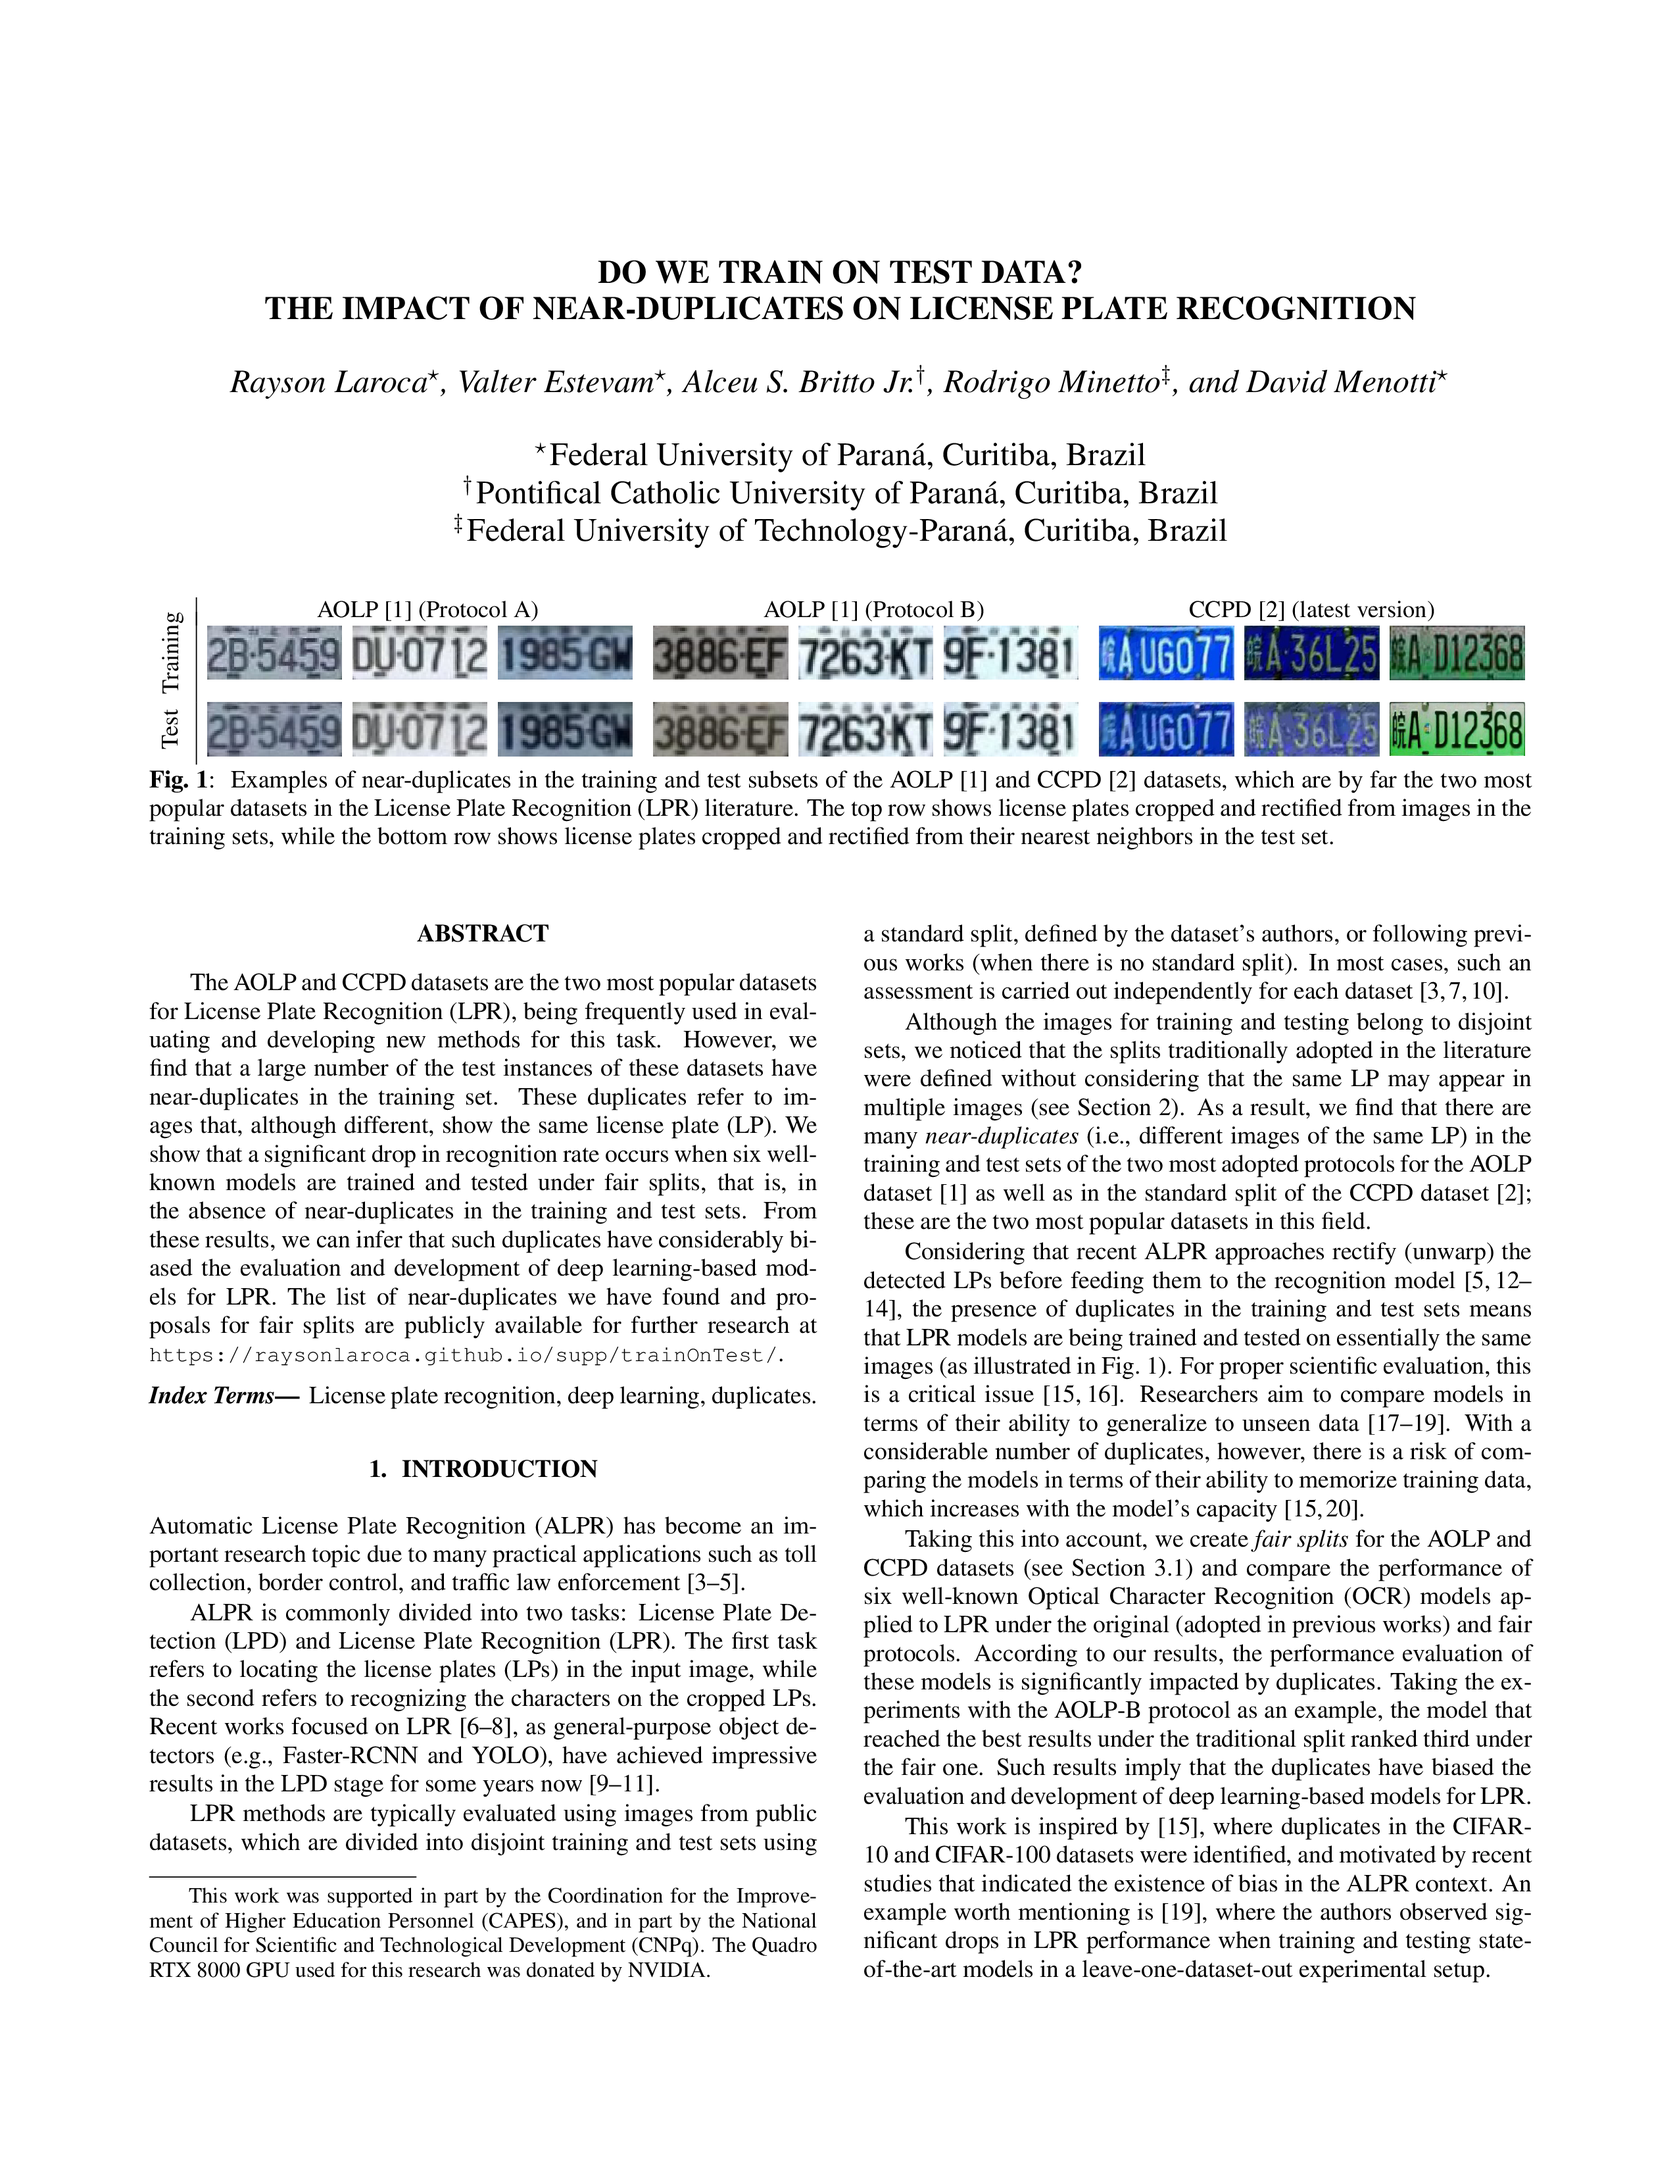
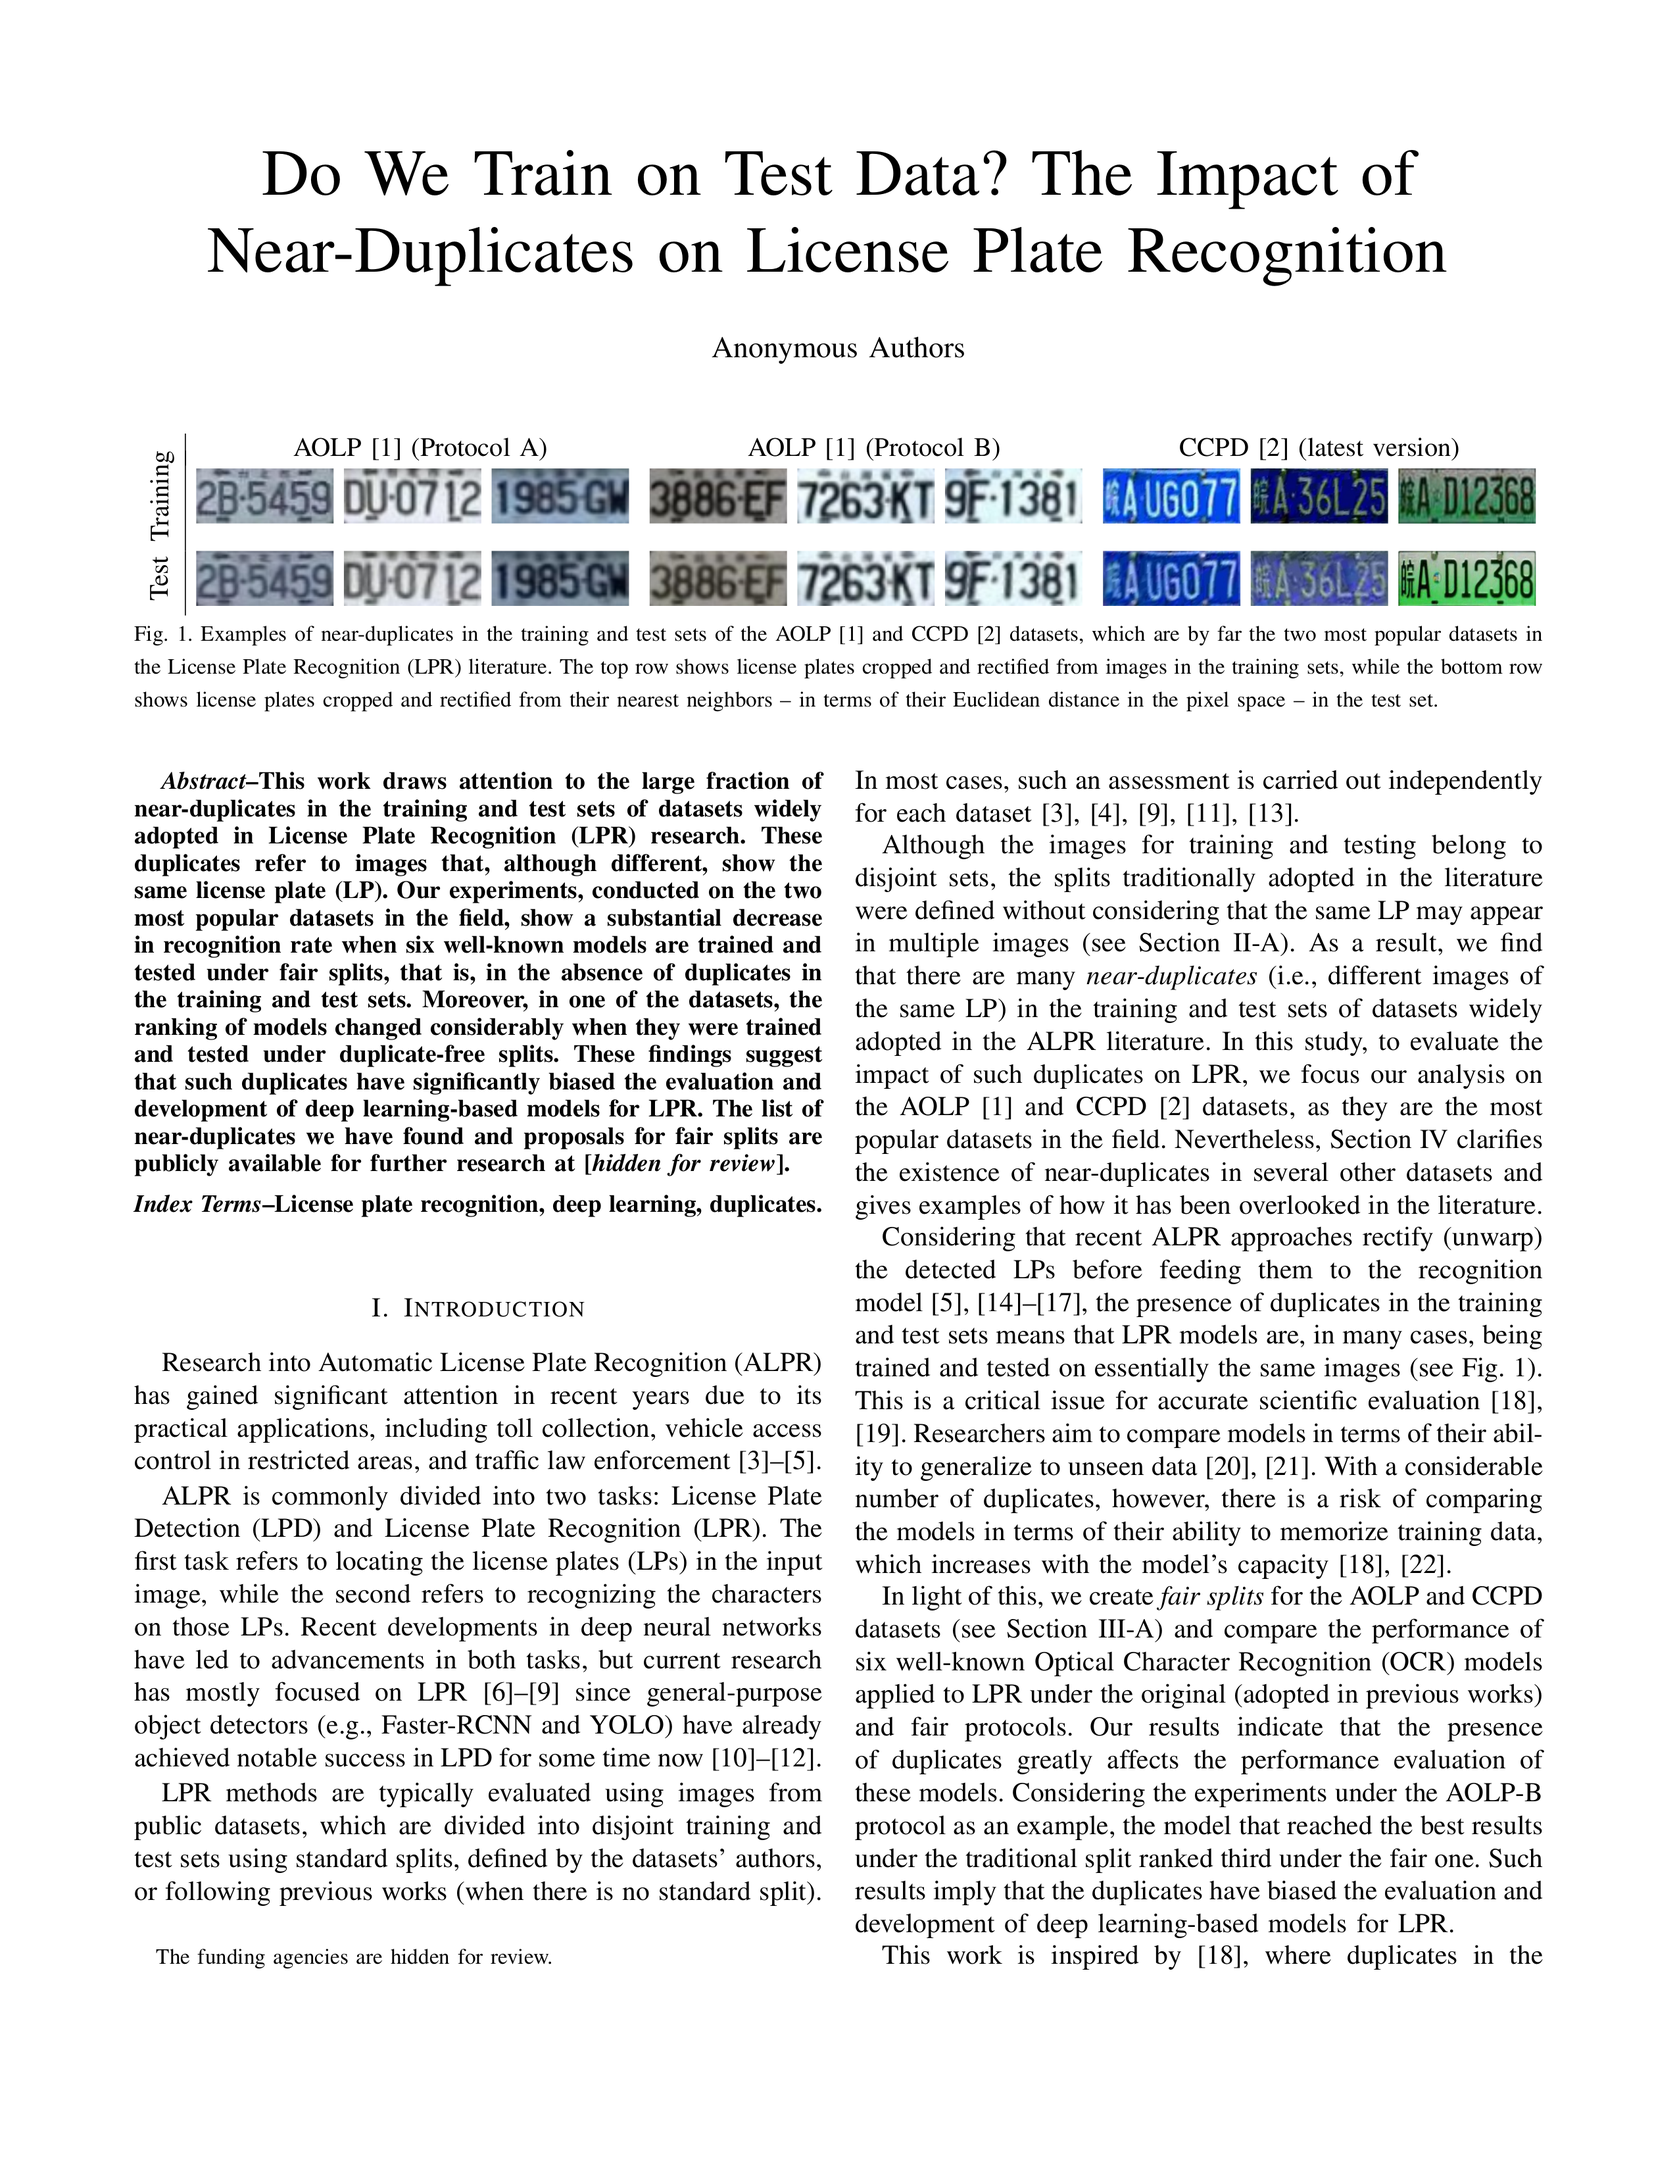
Updated thumbnail & general text

Changed region(s): [[0.062, 0.0624, 0.9294, 0.9052]]

diff --git a/supp/trainOnTest/index.html b/supp/trainOnTest/index.html
@@ -107,7 +107,7 @@
 				</tr>
 				<td>
 					<center>
-					<p style="text-align: justify;font-size:14px"><i>Examples of near-duplicates in the training and test subsets of the <a href="https://github.com/AvLab-CV/AOLP" target="_blank">AOLP</a> and <a href="https://github.com/detectRecog/CCPD" target="_blank">CCPD</a> datasets, which are by far the two most popular datasets in the License Plate Recognition (LPR) literature. The top row shows license plates cropped and rectified from images in the training sets, while the bottom row shows license plates cropped and rectified from their nearest neighbors in the test set.</i>
+					<p style="text-align: justify;font-size:14px"><i>Examples of near-duplicates in the training and test sets of the <a href="https://github.com/AvLab-CV/AOLP" target="_blank">AOLP</a> and <a href="https://github.com/detectRecog/CCPD" target="_blank">CCPD</a> datasets, which are by far the two most popular datasets in the License Plate Recognition (LPR) literature. The top row shows license plates cropped and rectified from images in the training sets, while the bottom row shows license plates cropped and rectified from their nearest neighbors – in terms of their Euclidean distance in the pixel space – in the test set.</i>
 					</p>
 					<center>
 				</td>
@@ -118,7 +118,7 @@
 				<h1>Abstract</h1>
 			</center>
 			<p style="text-align: justify;margin-bottom: 0pt">
-				<i>The AOLP and CCPD datasets are the two most popular datasets for License Plate Recognition (LPR), being frequently used in evaluating and developing new methods for this task. However, we find that a large number of the test instances of these datasets have near-duplicates in the training set. These duplicates refer to images that, although different, show the same license plate (LP). We show that a significant drop in recognition rate occurs when six well-known models are trained and tested under fair splits, i.e., in the absence of near-duplicates in the training and test sets. From these results, we can infer that such duplicates have considerably biased the evaluation and development of deep learning-based models for LPR. The list of near-duplicates we have found and proposals for fair splits are publicly available for further research.</i>
+				<i>This work draws attention to the large fraction of near-duplicates in the training and test sets of datasets widely adopted in License Plate Recognition (LPR) research. These duplicates refer to images that, although different, show the same license plate (LP). Our experiments, conducted on the two most popular datasets in the field, show a substantial decrease in recognition rate when six well-known models are trained and tested under fair splits, that is, in the absence of duplicates in the training and test sets. Moreover, in one of the datasets, the ranking of models changed considerably when they were trained and tested under duplicate-free splits. These findings suggest that such duplicates have significantly biased the evaluation and development of deep learning-based models for LPR. The list of near-duplicates we have found and proposals for fair splits are publicly available for further research.</i>
 			</p>
 			<br>
 			<hr>
@@ -139,8 +139,8 @@
 						<td>
 							<span style="font-size:12pt">In summary, this paper has two main contributions:</span>
 							<ol>
-								<li style="text-align: justify;margin-top:-5pt">We draw attention to the many duplicates in the training and test sets of the two most popular datasets for LPR (AOLP and CCPD), analyzing how they impact the performance assessment of six well-known OCR models applied to this task.</li>
-								<li style="text-align: justify;margin-top:5pt">We release <i>fair splits</i> for these datasets where (i) there are no duplicates in the training and test sets and (ii) the key characteristics of the original partitions are preserved as much as possible.</li>
+								<li style="text-align: justify;margin-top:-5pt">We unveil the presence of near-duplicates in the training and test sets of datasets widely adopted in the ALPR literature. Our analysis, using the AOLP and CCPD datasets, shows the impact of such duplicates on the performance assessment of six well-known OCR models applied to LPR.</li>
+								<li style="text-align: justify;margin-top:5pt">We create and release <i>fair splits</i> for the AOLP and CCPD datasets where (i) there are no duplicates in the training and test sets and (ii) the key characteristics of the original splits are preserved as much as possible.</li>
 							</ol>
 						</td>
 					</tr>
